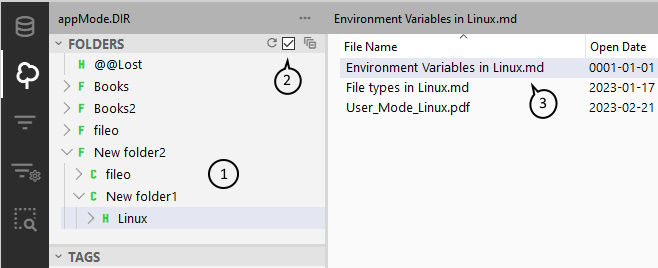
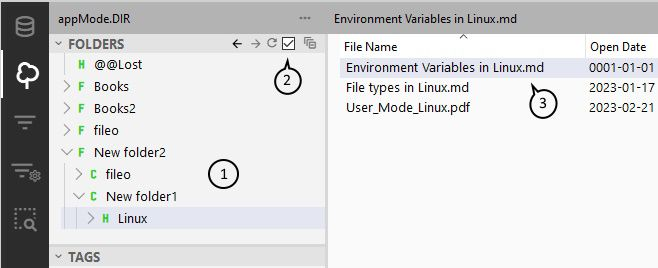
v 0.9.1, fix errors

diff --git a/src/fileo/widgets/find_files.py b/src/fileo/widgets/find_files.py
@@ -67,15 +67,23 @@ class findFile(QWidget):
             self.case.isChecked(),
             self.word.isChecked()
         )
+        if not name:
+            self.search_err_msg('Please enter file name')
+            return
+
         if db_ut.exists_file_with_name(name, case, word):
             ag.signals_.user_action_signal.emit(
                 f'find_files_by_name/{name},{int(case)},{int(word)}'
             )
             self.close()
         else:
-            dlg = QMessageBox(ag.app)
-            dlg.setWindowTitle(f'File not found"')
-            dlg.setText(f'File "{name}" not found')
-            dlg.setStandardButtons(QMessageBox.StandardButton.Close)
-            dlg.setIcon(QMessageBox.Icon.Warning)
-            dlg.exec()
+            self.search_err_msg(f'File "{name}" not found')
+
+    def search_err_msg(self, msg):
+        dlg = QMessageBox(ag.app)
+        dlg.setWindowTitle(f'File not found"')
+        dlg.setText(msg)
+        dlg.setStandardButtons(QMessageBox.StandardButton.Close)
+        dlg.setIcon(QMessageBox.Icon.Warning)
+        dlg.exec()
+        self.srch_pattern.setFocus()

diff --git a/src/fileo/core/db_ut.py b/src/fileo/core/db_ut.py
@@ -115,12 +115,11 @@ def get_files_by_name(name: str, case: bool, exact: bool) -> apsw.Cursor:
         return conn.execute(sql, (nn,))
 
 def exists_file_with_name(name: str, case: bool, exact: bool) -> bool:
-    sql = (
-        'select count(*) from files where filename '
-        f"{'glob ?' if case else 'like ?'}"
-    )
-    wildcard = '*' if case else '%'
-    nn = name if exact else f'{wildcard}{name}{wildcard}'
+    filename = 'filename' if case else 'upper(filename)'
+    sql = f'select count(*) from files where {filename} glob ?'
+    nn = name if case else name.upper()
+    if not exact:
+        nn = f'*{nn}*'
     with ag.db['Conn'] as conn:
         res = conn.execute(sql, (nn,)).fetchone()
         return res[0] > 0

diff --git a/src/fileo/main.py b/src/fileo/main.py
@@ -25,7 +25,7 @@ def app_version() -> str:
     what the shit is this versioning support API
     it's easier to hardcode it everywhere
     """
-    return '0.9.0'
+    return '0.9.1'
 
 @pyqtSlot(QWidget, QWidget)
 def tab_pressed():
@@ -55,7 +55,8 @@ def main():
     # set_logger(file_name)
 
     try:
-        lock_file = QLockFile(QDir.tempPath() + app_name() + '.lock')
+        lock_file = QLockFile(QDir.tempPath() + '/' + app_name() + '.lock')
+        logger.info(f'{lock_file.fileName()}')
         if not lock_file.tryLock():
             sys.exit(0)
 

diff --git a/README.md b/README.md
@@ -10,52 +10,54 @@ The graphical interface is shown in the image below.
 
 ## The GUI elements:
 
-1. The label to display application mode
+1. shows application mode
 2. the button to display menu to hide/show the widgets("Folders", "Tags", "File Extensions", "Authors") on the left pane. All menu items checked in the image &ndash; this means that all widgets are visible.
 3. the name of current file
-4. buttons to search files by name and to select which fields will be visible in the file list
-5. the group of buttons for working with the tree of folders
+4. a button to search files by name, and a button to select fields to be visible in the file list
+5. a group of buttons for working with the folder tree: previous-next folder in the history of visited folders; show hidden folder; collapse all branches/expand the last branch
 6. the left toolbar, it contains the following buttons from top to bottom:
    1. button to chose/create the data base file
-   2. selection of the "DIR" mode of application, the file list shows the files from the current folder
-   3. selection of the "FILTER" mode, the list of files shows the files according to the filter settings
-   4. open the filter settings dialog, switch application into "FILTER_SETUP" mode
-   5. open dialog to scan the file system to load files into the database
+   2. switch to "DIR" mode, the file list displays files from the current folder
+   3. switch to the "FILTER" mode, the file list displays files according to the filter settings
+   4. open filter settings dialog, switch to "FILTER_SETUP" mode
+   5. open a dialog to upload files to the application from  the selected root folder and all its subfolders
    6. hide/show left pane
    7. menu button
-7. the list of files from selected folder, of created by filter
-8. the name of the current database
-9. the branch of folder tree from the root to the current folder
-10. the panel to show/edit file data: comments(notes), tags, authors(for books), locations - the folder branches where the current file can be found - file may reside in the several folders.
+7. list of selected files (by filter, folder, etc.)
+8. current database name
+9. folder tree branch from root to current folder
+10. panel for displaying/editing file data: comments (notes), tags, authors (for books), links (links to a file can be located in several folders).
 
 The application works in three main modes: DIR, FILTER and FILTER_SETUP. In DIR mode, files are selected by the current directory in the "Folders" widget.
 
-In the FILTER mode, the list of files depends on the parameters of the filter set in FILTER_SETUP mode.
+In FILTER mode, the list of files depends on the filter options set in FILTER_SETUP mode. The filter may depend on the selected folders, selected tags, and selected authors in the boxes in the left pane. In FILTER_SETUP mode, the list of files does not change when changing the selected folders, tags, authors. But in FILTER mode, any changes are immediately displayed in the list of files.
 
 ## How it's done
 
 As said, the app is about files. Files have a number of attributes:
 
 1. name
-2. path, the user will almost never see it, only by opening a directory or copying the full filename and in the "File info" page
-3. extension
+2. path, the user practically does not see it, only by opening the directory or copying the full file name and on the "File Information" page
+3. file extension
 4. tags
 5. rating
 6. author(s) - usually for books
-7. dates
-   1. modified
-   2. opened
-   3. created
-   4. published (books)
+7. dates of:
+    1. modification
+    2. reading
+    3. creation
+    4. publication (books)
 8. rating
-9. how many times the file has been opened
-10. size
-11. pages - usually for books
+9. file opened (times)
+10. size in bytes
+11. number of pages - usually for books
 
 The following attributes are used in filter: all dates (but only one can be used at a time), extension, tags, rating, authors, and folder which was intentionally not included in the file attributes.
 
 Folders are not associated with file system directories, the path is used for that. You can freely create, move, copy and delete folders in the folder tree, the files will remain intact. You can, for example, create multiple folder hierarchies, this can be handy. Of course, if you delete all folders it will be impossible to access files using folder tree, but they remain accessible by filter. The next time the **`@@Lost`** folder will appear, it can be used to access files that are not in any other folder.
-You can also copy/move files from one folder to another. **Copying** is carried out by dragging *with the left mouse button pressed*, **moving** - *with the left mouse button and Shift key pressed*.
+You can also *copy/move files from one folder to another*. **Copying** is done by dragging *with the left mouse button pressed*, dragging *with the right mouse button pressed* allows you to choose whether to **move** or **copy** *selected files*.
+
+
 
 ## How it works
 
@@ -76,7 +78,7 @@ There are two method to add files:
 >
 > Only one background thread can run at a time - this is the design of the application. The user interface is not blocking but you should avoid to perform operation that make changes in the database, for example, drag-drop operations. But you can change the list of files by changing a current folder or filter, or you can open files.
 
-3. You can export the selected files (with all their attributes) from one database using the file list context menu
+3. You can export the selected files (with all their attributes) from the database using the context menu of the file list:
 
    ![export-files](https://github.com/Michal-D4/fileo/raw/main/img/export-files.jpg)
 
@@ -88,23 +90,23 @@ There are two method to add files:
 
 ### How to work with filters
 
-Firstly you should setup the filter:
+First you should setup the filter:
 
 ![image-20230213185910924](https://github.com/Michal-D4/fileo/raw/main/img/image-20230213185910924.png)
 
-With filter defined on the picture the file list will include files from folders `DB`, `ML` and `Rust`, that has at least one of tags `Math`, `ML` or `package`, has rating greater than 4, and opened after `2022-09-14`.
+With the filter set in the picture, the list of files will include files from the any of `DB`, `ML` or `Rust` folders that have at least one of the `Math`, `ML` or `package` tags, have a rating higher than 4 and are open after `2022-09-14`.
 
-> **Note** Here "after" and "before" include the date in the input fields 2022-09-14 and 2022-11-14. That is, if "after"and "before" are equal then the filter includes files with a date equal to this date.
+> **Note.** Here "after" and "before" include the date in the input fields 2022-09-14 and 2022-11-14. That is, if "after" and "before" are the same, then the filter will show files with this date.
 
 The Apply button applies a specified filter without closing the Filter Setup dialog box.
 
-The button Done applies a filter, closing dialog and switch application into "Filter mode". In this mode when you change selection in one of the widgets in the left pane (Folders, Tags, Extensions, Authors) the list of files is changing accordingly.
+The Done button applies the filter, closes the dialog, and switches the application to "**Filter Mode**". In this mode, when you change the selection in any of the fields on the left panel (Folders, Tags, Extensions, Authors), the list of files immediately changes.
 
 ### How to find files by name
 
 ![image-20230428203253627](https://github.com/Michal-D4/fileo/raw/main/img/find_file.jpg)
 
-
+The search is performed by pressing the Enter key. "Aa" is a case sensitive search, if checked, "ab" - exact search, but you can use wildcards: "*" - any number of any letters, or "?" - any single letter.
 
 ### How to make notes to the file
 
@@ -121,15 +123,15 @@ The button Done applies a filter, closing dialog and switch application into "Fi
 1. the save changes button
 2. the button to discard changes
 
-Note is a markdown text.
+Note is a markdown text. You can insert web links here, but the links to files in the application are not implemented (and not planned yet)
 
 ### Tag selector
 
 ![tag-selector](https://github.com/Michal-D4/fileo/raw/main/img/tag-selector.jpg)
 
 1. The list of tags associated with the current file. You can input here a list of tags separated by commas. It is the only place where the new tag can be created. The new tags will appear in the list 2 and 4.
-2. The list of tags. The tags selected in this list apply to the file filter. 
-3. The context menu in the list of tags. The current tag is highlighted - "package" in this case.
+2. The list of tags. The tags selected in this list apply to the file filter.
+3. The context menu in the list of tags. Selected tags are highlighted ('Linux' and 'package'). The tag  'package' is a current tag (last selected).
 4. The tag selector. The tags selected here will appear in the list 1.
 
 ### Author selector
@@ -137,7 +139,7 @@ Note is a markdown text.
 ![author-selector](https://github.com/Michal-D4/fileo/raw/main/img/author-selector.jpg)
 
 1. The list of authors associated with the current file. You can input here a list of authors separated by commas (in square brackets if author name contains comma as in "Vaughan, Lee", otherwise it may be entered without brackets, but new authors without brackets must be in the end of list). It is the only place where the new author can be created. The new authors will appear in the list 2 and 4.
-2. The list of authors. The authors selected in this list apply to the file filter. 
+2. The list of authors. The authors selected in this list apply to the file filter.
 3. The context menu in the list of authors. The current tag is highlighted - "Vijay  Pande" in this case.
 4. The author selector. The authors selected here will appear in the list 1.
 
@@ -151,7 +153,7 @@ The letters "C" and "H" in brackets means "Copy" and "Hidden". "Copy" and "Hidde
 
 ![Folders](https://github.com/Michal-D4/fileo/raw/main/img/Folders.jpg)
 
-1. The "FOLDERS" widget
+1. The "FOLDERS" box
 2. The check box. It is used to switch the "FOLDERS" widget to the "Show hidden folders" mode. The folders "@@Lost" and "Linux" are hidden; "fileo" and "New folder1" in the folder "New folder2" are copies. The only difference between folder and its copies is that when you delete folder all its copies and all its children will be deleted too, whereas deletion of any copy of folder does not impact any other folder.
 3. The current file. "Environment Variables in Linux.md"
 
@@ -166,3 +168,14 @@ The "File rating" and "Pages" can be edited here. But they also can be edited di
 1. The file list
 2. Menu to select fields visible in the file list. The checked fields are visible, the field "File Name" is always visible.
 
+### File operations
+
+
+
+![file_context_menu](https://github.com/Michal-D4/fileo/raw/main/img/file_context_menu.png)
+
+Almost all operations with files are shown in the context menu on the picture.
+
+Besides them you can copy / move files from one folder to another.
+
+You can also open files by double clicking on "File name". If the file is executable, it will be executed, not opened. Thus, the application can be used as a "Start Menu", it can be even more convenient than the standard "Start Menu".
